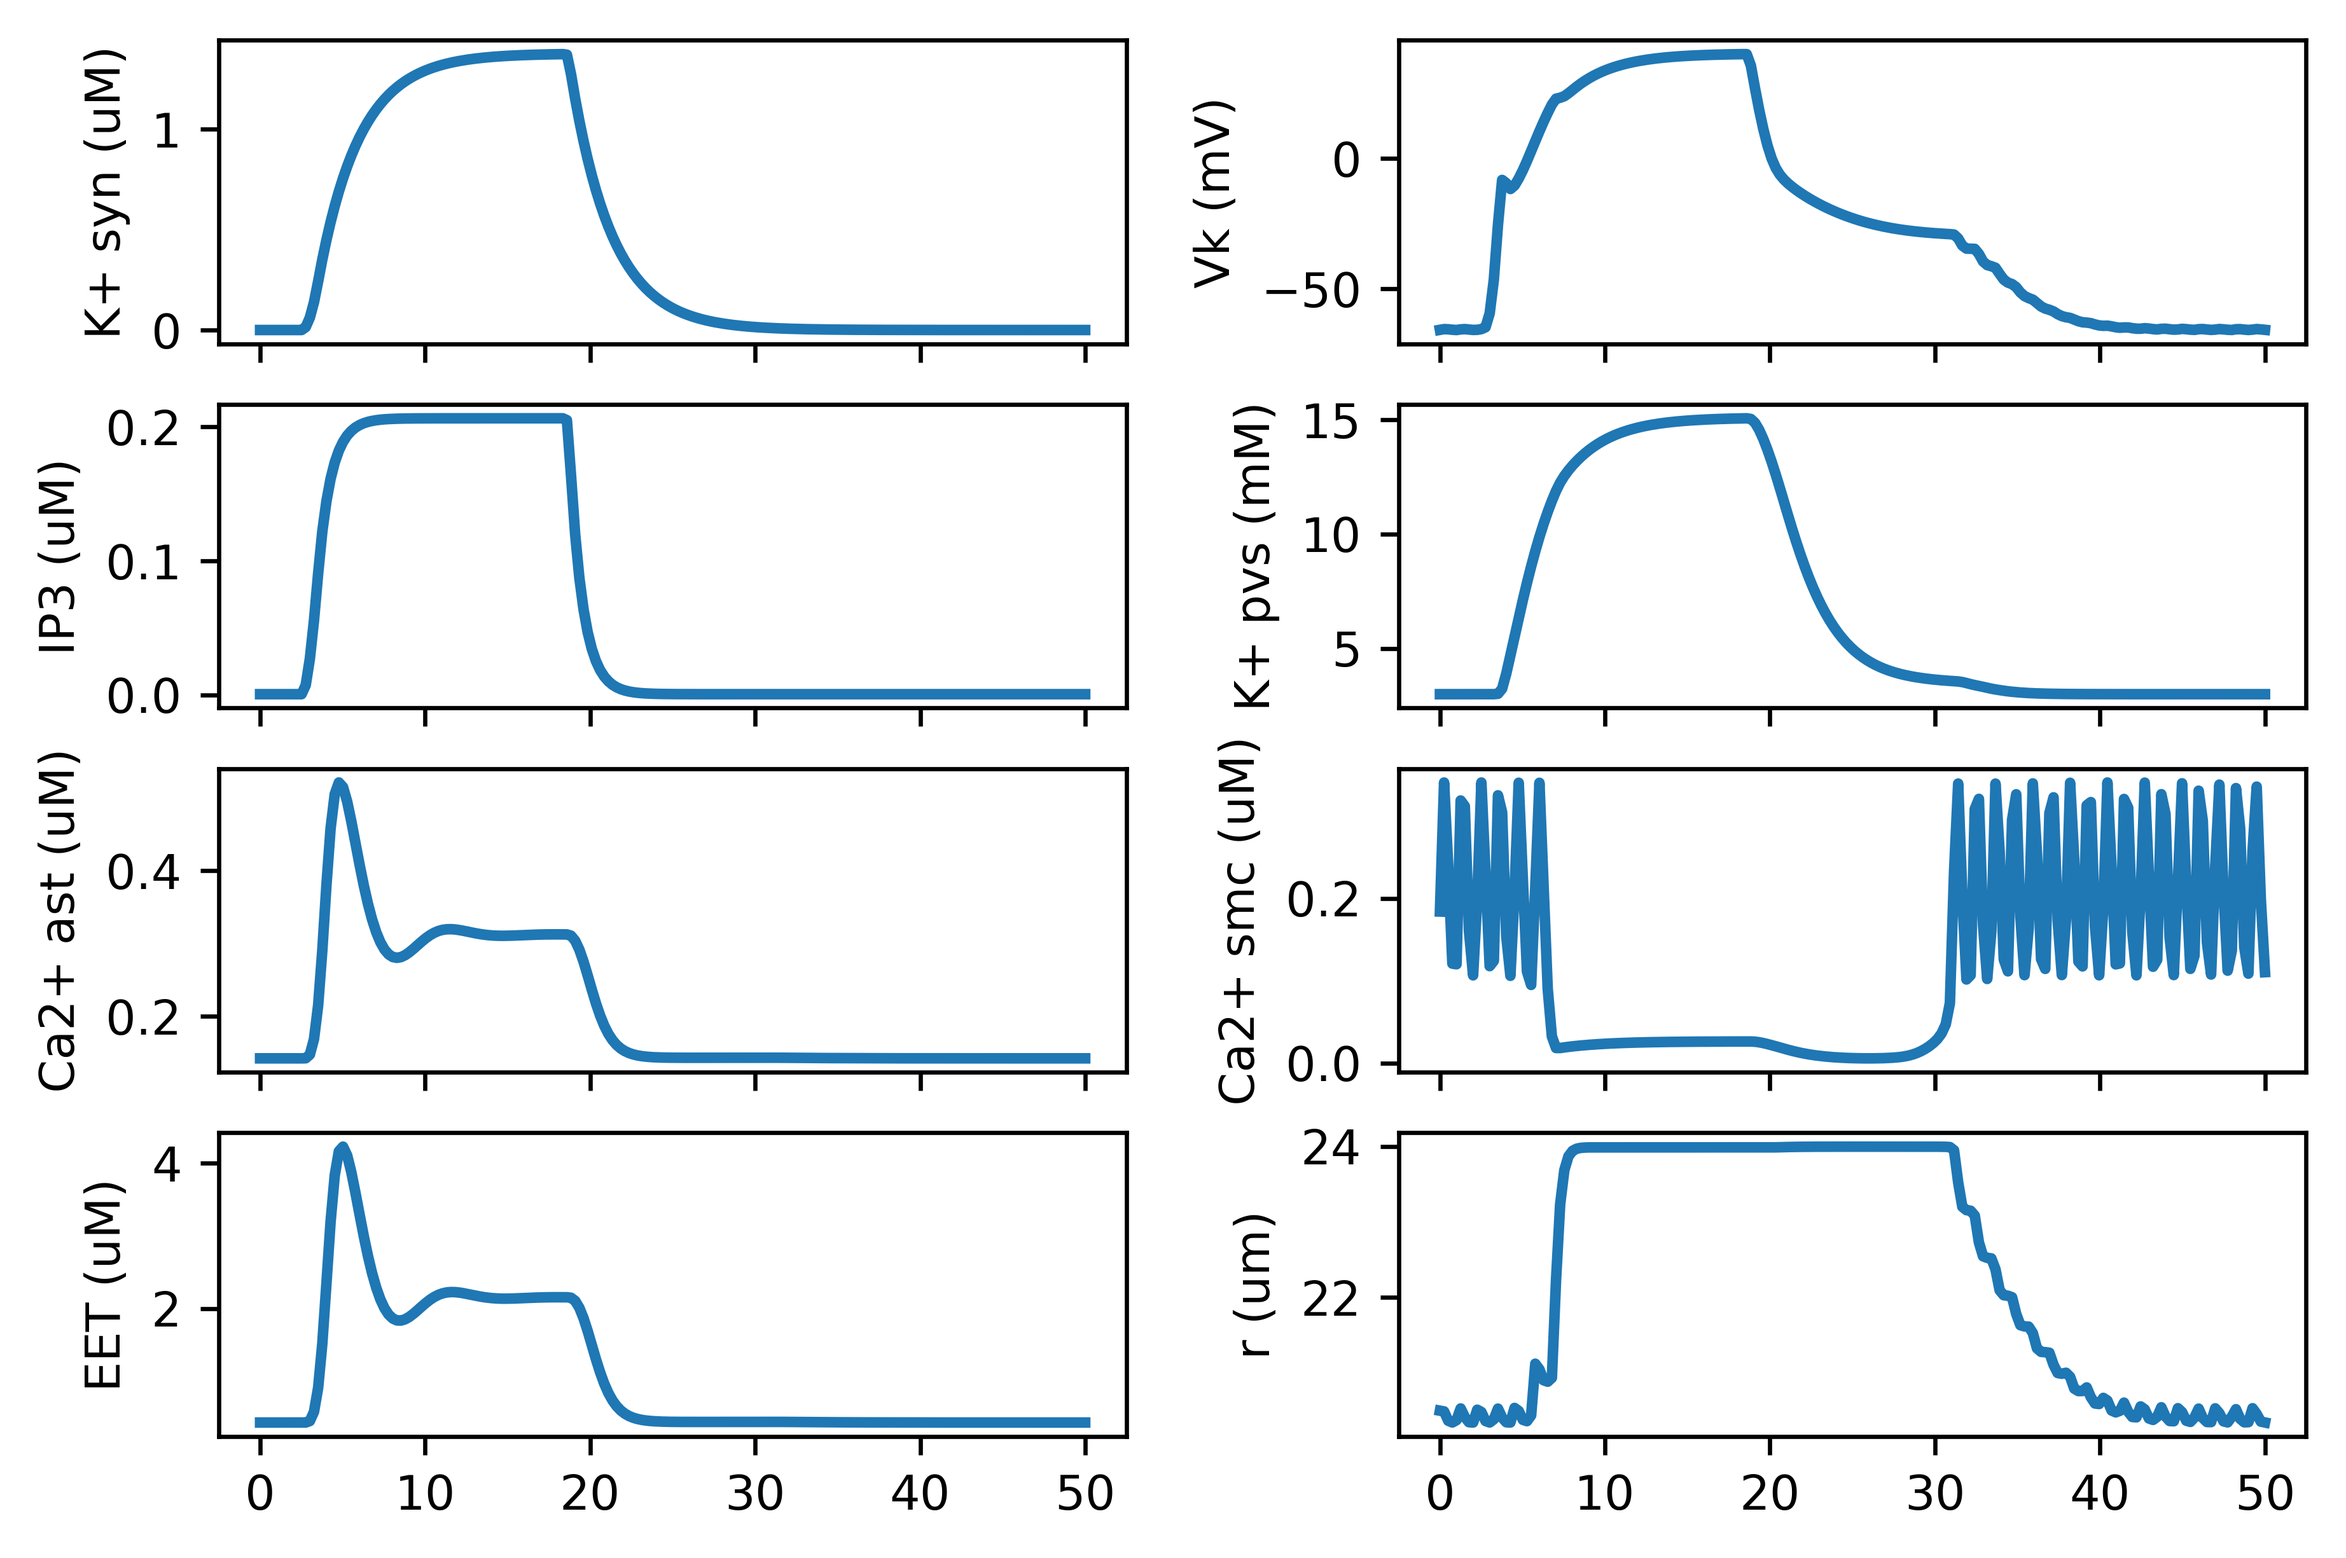
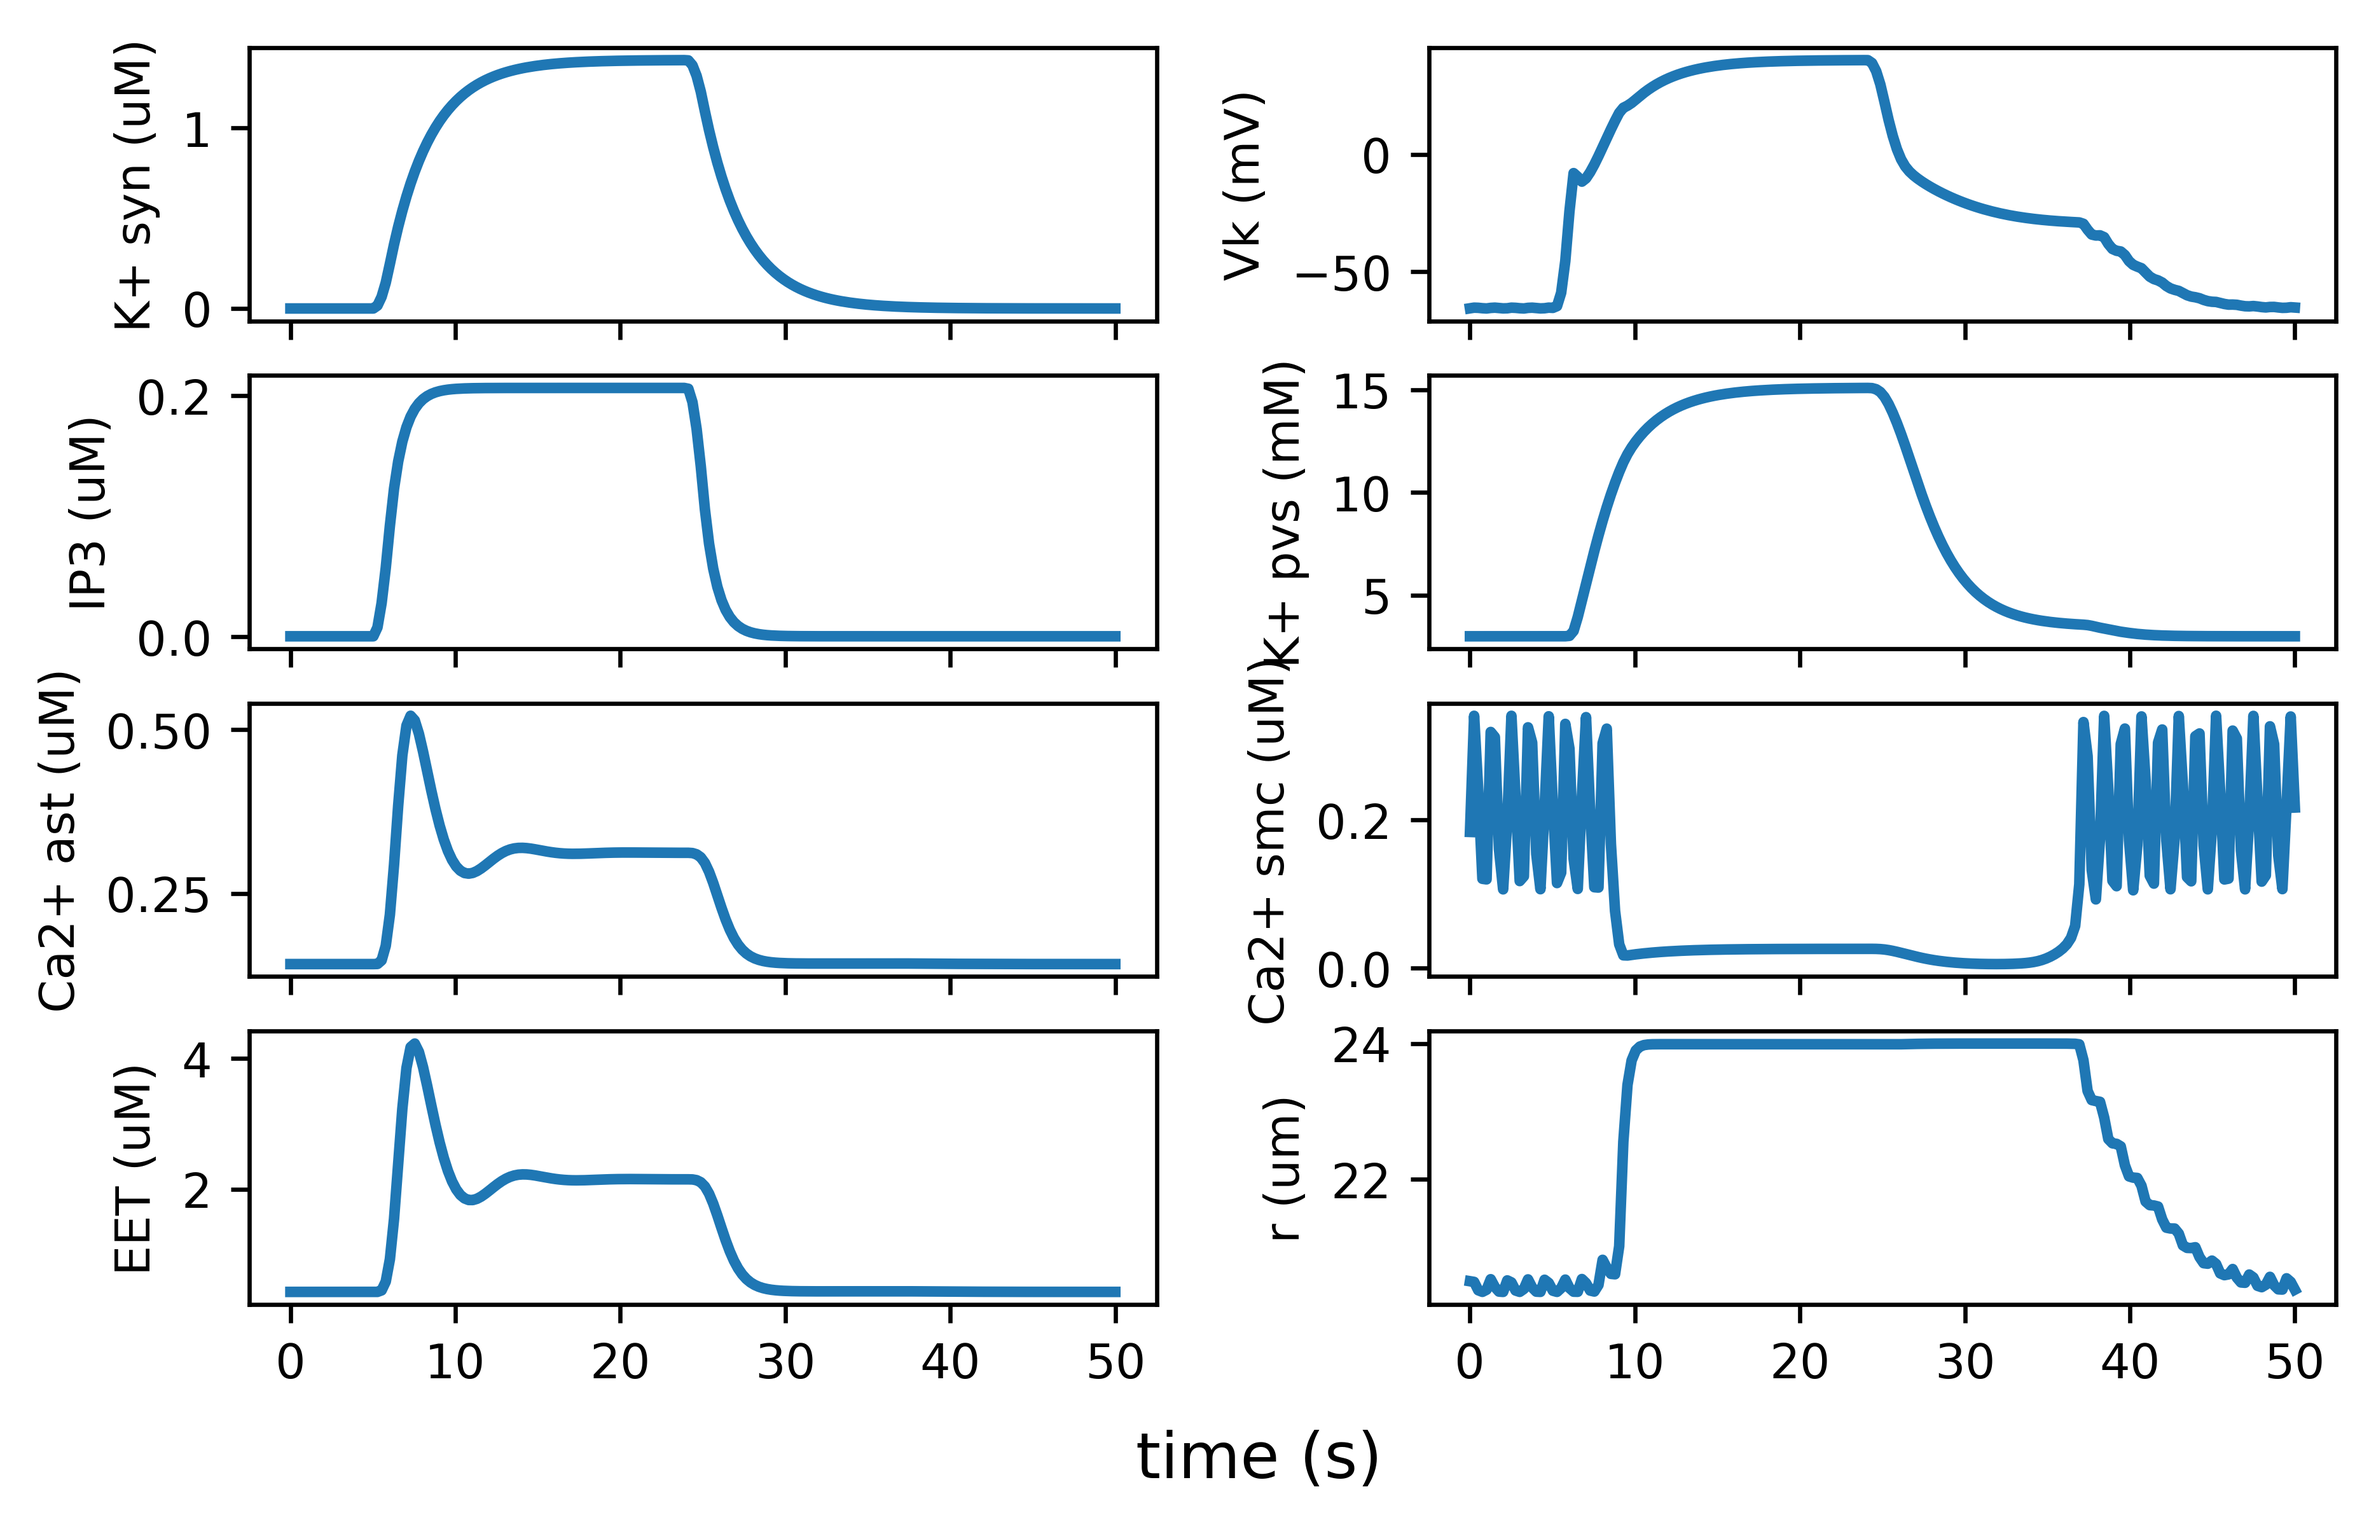
(o) The code and figures in the manuscript have been modified to match the stimulus length and time points in the original publication.

Changed region(s): [[0.0, 0.0, 0.9978, 0.9671], [0.9666, 0.9359, 0.9978, 0.9671]]

diff --git a/code/nvu_Vk.py b/code/nvu_Vk.py
@@ -289,10 +289,10 @@ def K_glut_release(t1, t2):
     Max_neural_glut = 0.5
     Jrho_IN = np.zeros((sizeJrho,3))
     Jrho_IN[:,0] = np.linspace(t1, t2, sizeJrho)
-    it1 = int(2.5*sec)
+    it1 = int(5.0*sec)
     it2 = int(sec)
-    it3 = int(15*sec)
-    it4 = int(0.25*sec)
+    it3 = int(18*sec)
+    it4 = int(sec)
     pos = it1
     Jrho_IN[pos+1:pos+it2+1,1] = Max_neural_Kplus * np.linspace(0, 1, it2)
     Jrho_IN[pos+1:pos+it2+1,2] = Max_neural_glut * np.linspace(0, 1, it2)
@@ -372,14 +372,15 @@ def main(fig_dims):
     axarr[2, 1].set_ylabel("Ca2+ smc (uM)")
     axarr[3, 1].plot(t, sol[:,12]/(2*np.pi*um), label="", lw=2)
     axarr[3, 1].set_ylabel("r (um)")
+    f.suptitle("time (s)", y=0.05)
     # Fine-tune figure; hide x ticks for top plots
     plt.setp([a.get_xticklabels() for a in axarr[0,:]], visible=False)
     plt.setp([a.get_xticklabels() for a in axarr[1,:]], visible=False)
     plt.setp([a.get_xticklabels() for a in axarr[2,:]], visible=False)
     # Fine-tune figure; make subplots farther from each other.
     f.subplots_adjust(wspace=0.3, hspace=0.2)
-#    plt.savefig('figures/vk.png', dpi=600, bbox_inches='tight')
-    plt.show()
+    plt.savefig('../article/figures/fig2.png', dpi=600, bbox_inches='tight')
+#    plt.show()
     
     
     

diff --git a/code/nvu.py b/code/nvu.py
@@ -290,10 +290,10 @@ def K_glut_release(t1, t2):
     Max_neural_glut = 0.5
     Jrho_IN = np.zeros((sizeJrho,3))
     Jrho_IN[:,0] = np.linspace(t1, t2, sizeJrho)
-    it1 = int(2.5*sec)
+    it1 = int(5.0*sec)
     it2 = int(sec)
-    it3 = int(15*sec)
-    it4 = int(0.25*sec)
+    it3 = int(18*sec)
+    it4 = int(sec)
     pos = it1
     Jrho_IN[pos+1:pos+it2+1,1] = Max_neural_Kplus * np.linspace(0, 1, it2)
     Jrho_IN[pos+1:pos+it2+1,2] = Max_neural_glut * np.linspace(0, 1, it2)
@@ -369,6 +369,7 @@ def main(fig_dims):
     axarr[2, 1].set_ylabel("Ca2+ smc (uM)")
     axarr[3, 1].plot(t, sol[:,13]/(2*np.pi*um), label="", lw=2)
     axarr[3, 1].set_ylabel("r (um)")
+    f.suptitle("time (s)", y=0.05)
     # Fine-tune figure; hide x ticks for top plots
     plt.setp([a.get_xticklabels() for a in axarr[0,:]], visible=False)
     plt.setp([a.get_xticklabels() for a in axarr[1,:]], visible=False)
